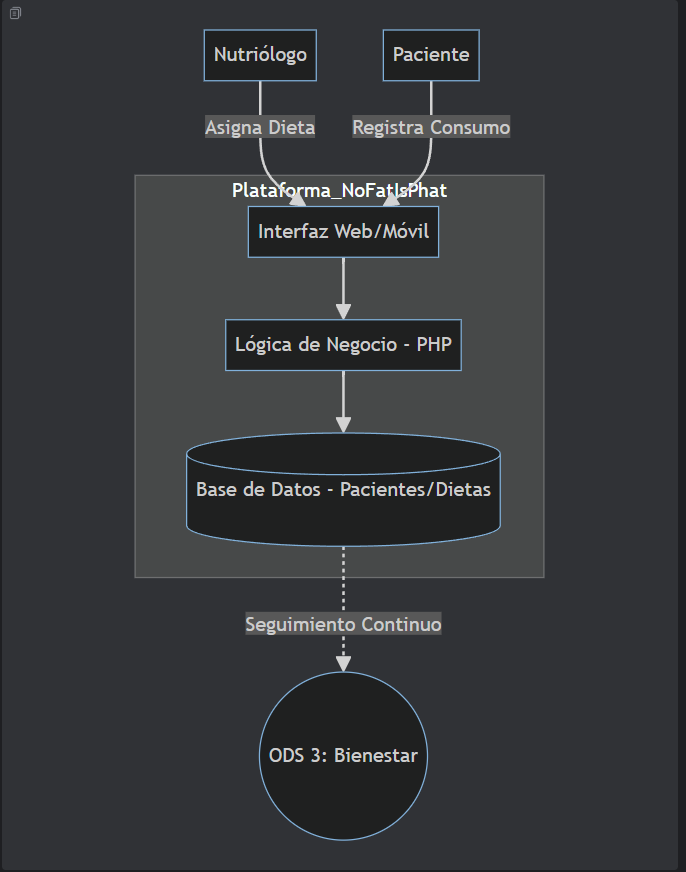
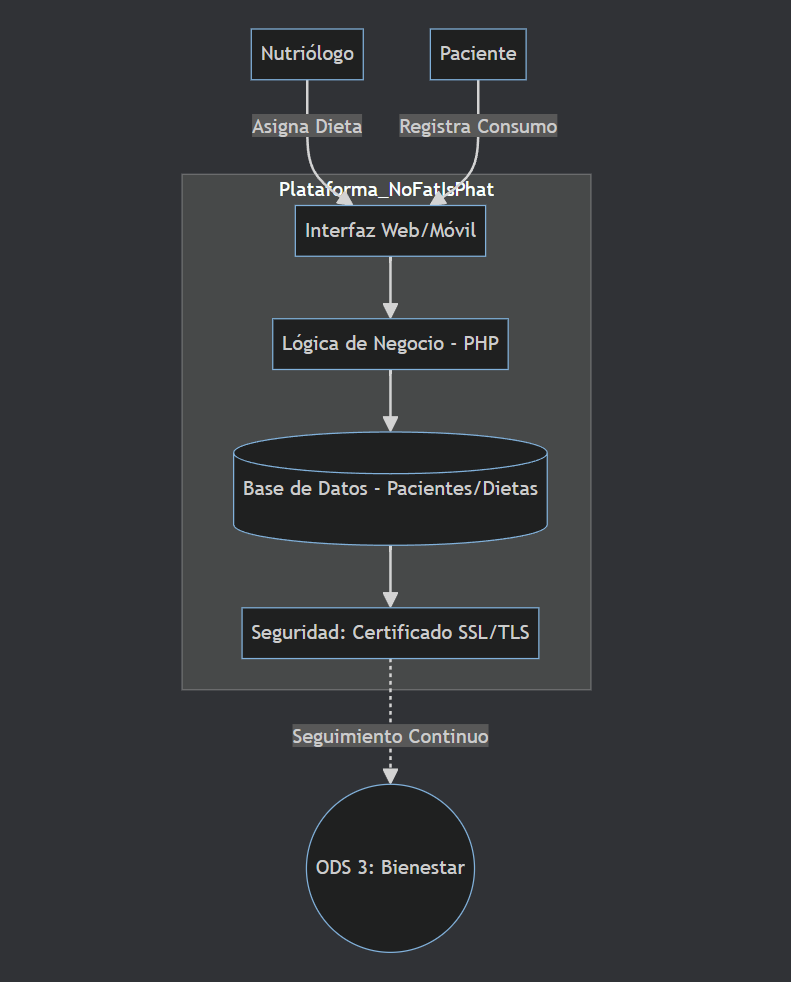
docs: actualizar arquitectura de seguridad y gobernanza

diff --git a/CONTRIBUTING.md b/CONTRIBUTING.md
@@ -1,4 +1,4 @@
-# 📜 Guía de Contribución - NoFatIsPhat (ODS 3)
+# Guía de Contribución - NoFatIsPhat (ODS 3)
 
 ¡Bienvenido al repositorio de **NoFatIsPhat**! Este proyecto busca
 transformar la relación entre nutriólogos y pacientes mediante
@@ -10,41 +10,41 @@ directrices.
 
 ------------------------------------------------------------------------
 
-## 1. 🧠 Estándares Éticos (Gobernanza de Datos)
+## 1. Estándares Éticos (Gobernanza de Datos)
 
 Como solución orientada al **ODS 3: Salud y Bienestar**, la ética es
 nuestra prioridad:
 
--   🔒 **Privacidad:**\
+- **Privacidad:**\
     No se deben subir datos reales de pacientes al repositorio. Use
     datos sintéticos para pruebas.
 
--   ♿ **Inclusión:**\
+- **Inclusión:**\
     Todo cambio en la interfaz debe ser validado con herramientas de
     accesibilidad (lectores de pantalla, contraste adecuado).
 
--   📖 **Transparencia:**\
+- **Transparencia:**\
     Cualquier cambio en la lógica de procesamiento de datos debe ser
     documentado en el **Manifiesto de Ética**.
 
 ------------------------------------------------------------------------
 
-## 2. 🔄 Flujo de Trabajo de Git (Historial Lineal)
+## 2. Flujo de Trabajo de Git (Historial Lineal)
 
 Para cumplir con la auditoría de integridad solicitada, mantenemos un
 historial de commits limpio y legible:
 
-1.  **Sincronización:**\
+1. **Sincronización:**\
     Antes de empezar, asegúrese de tener la última versión de la rama
     `main`.
 
-2.  **Ramas:**\
+2. **Ramas:**\
     Use nombres descriptivos como:
 
-    -   `feature/nombre-mejora`
-    -   `bugfix/descripcion-error`
+    -   feature/nombre-mejora
+    -   bugfix/descripcion-error
 
-3.  **Rebase Obligatorio:**\
+3. **Rebase Obligatorio:**\
     Queda estrictamente prohibido el uso de `git merge` para integrar
     `main` en su rama de trabajo.\
     Debe utilizar `rebase`:
@@ -54,16 +54,16 @@ historial de commits limpio y legible:
     git rebase origin/main
     ```
 
-4.  **Pull Requests:**\
+4. **Pull Requests:**\
     Describa claramente el impacto del cambio y vincule el Issue
     correspondiente.\
     Ejemplo:
 
-        Closes #12
+    Closes #12
 
 ------------------------------------------------------------------------
 
-## 3. 📊 Documentación (Docs-as-Code)
+## 3. Documentación (Docs-as-Code)
 
 -   Es obligatorio el uso de **Mermaid.js** para cualquier actualización
     en los diagramas de arquitectura.
@@ -75,7 +75,7 @@ historial de commits limpio y legible:
 
 ------------------------------------------------------------------------
 
-## 4. 🔐 Auditoría de Seguridad
+## 4. Auditoría de Seguridad
 
 -   El pipeline de CI/CD rechazará automáticamente cualquier commit que
     contenga:
@@ -86,7 +86,7 @@ historial de commits limpio y legible:
 
 ------------------------------------------------------------------------
 
-## 🎓 Institución
+## Institución
 
 **Instituto Tecnológico Superior de Xalapa**\
 Ingeniería en Sistemas Computacionales

diff --git a/docs/index.md b/docs/index.md
@@ -17,15 +17,17 @@ subgraph Plataforma_NoFatIsPhat
     App[Interfaz Web/Móvil]
     API[Lógica de Negocio - PHP]
     DB[(Base de Datos - Pacientes/Dietas)]
+    SSL[Seguridad: Certificado SSL/TLS]
 end
 
 Nutri -->|Asigna Dieta| App
 Pac -->|Registra Consumo| App
 App --> API
 API --> DB
+DB --> SSL
 
 %% Conexión con ODS 3
-DB -.->|Seguimiento Continuo| ODS3((ODS 3: Bienestar))
+SSL -.->|Seguimiento Continuo| ODS3((ODS 3: Bienestar))
 
 ```
 
@@ -33,11 +35,11 @@ DB -.->|Seguimiento Continuo| ODS3((ODS 3: Bienestar))
 
 ### Diccionario de datos
 
-<https://deadgon48.github.io/NoFatIsPhat/datos>
+<https://deadgon48.github.io/NotFatIsPhat/datos>
 
 ### Guía de Despliegue
 
-<https://deadgon48.github.io/NoFatIsPhat/despliege>
+<https://deadgon48.github.io/NotFatIsPhat/despliege>
 
 ## Estado del Proyecto: Desplegado
 

diff --git a/docs/despliege.md b/docs/despliege.md
@@ -29,7 +29,13 @@ El sistema sigue una arquitectura **Cliente-Servidor (Fullstack)**:
 * **Procesador:** Dual Core 2.0 GHz o superior.
 * **Espacio en disco:** 200 MB para la aplicación.
 
-## 5. Estructura del Proyecto
+## 5. Seguridad de Datos
+Toda la comunicación entre el paciente 
+y el servidor se realiza vía HTTPS. 
+Los datos biométricos están sujetos a la 
+Ley de Protección de Datos Personales.
+
+## 6. Estructura del Proyecto
 ```text
 NoFatIsPhat/
 ├── config/             # Conexión a BD y constantes
